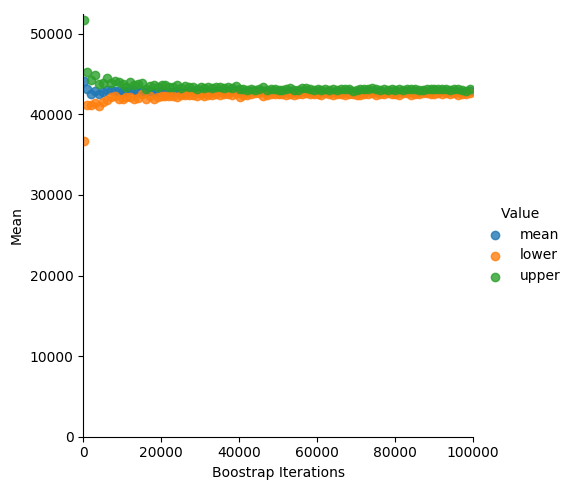
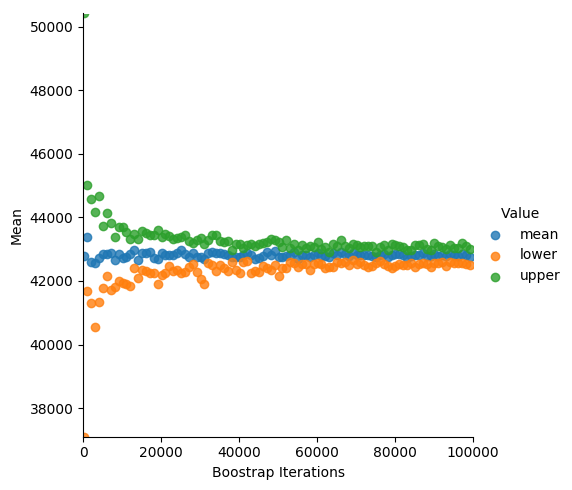
polish bootstrap output

diff --git a/lab2/src/bootstrap.py b/lab2/src/bootstrap.py
@@ -49,7 +49,9 @@ if __name__ == "__main__":
     sns_plot = sns.lmplot(
         df_boot.columns[0], df_boot.columns[1], data=df_boot, fit_reg=False, hue="Value")
 
-    sns_plot.axes[0, 0].set_ylim(0,)
+    means = df_boot.iloc[:, 1]
+    print(min(means), max(means))
+    sns_plot.axes[0, 0].set_ylim(min(means), max(means))
     sns_plot.axes[0, 0].set_xlim(0, 100000)
 
     sns_plot.savefig(output, bbox_inches='tight')
